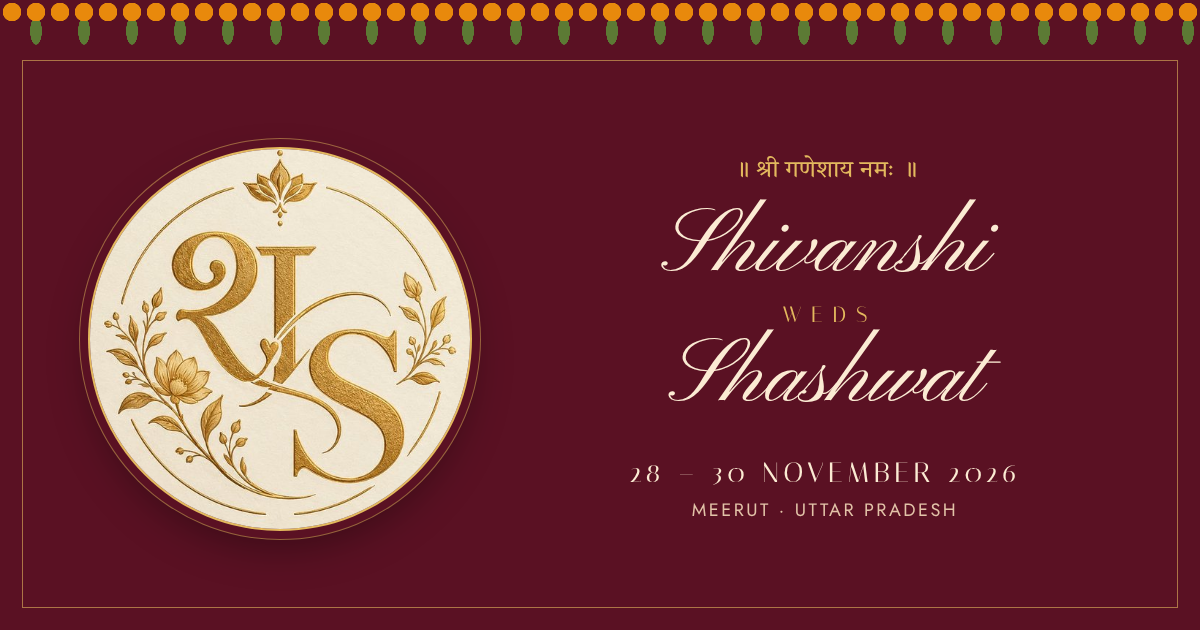
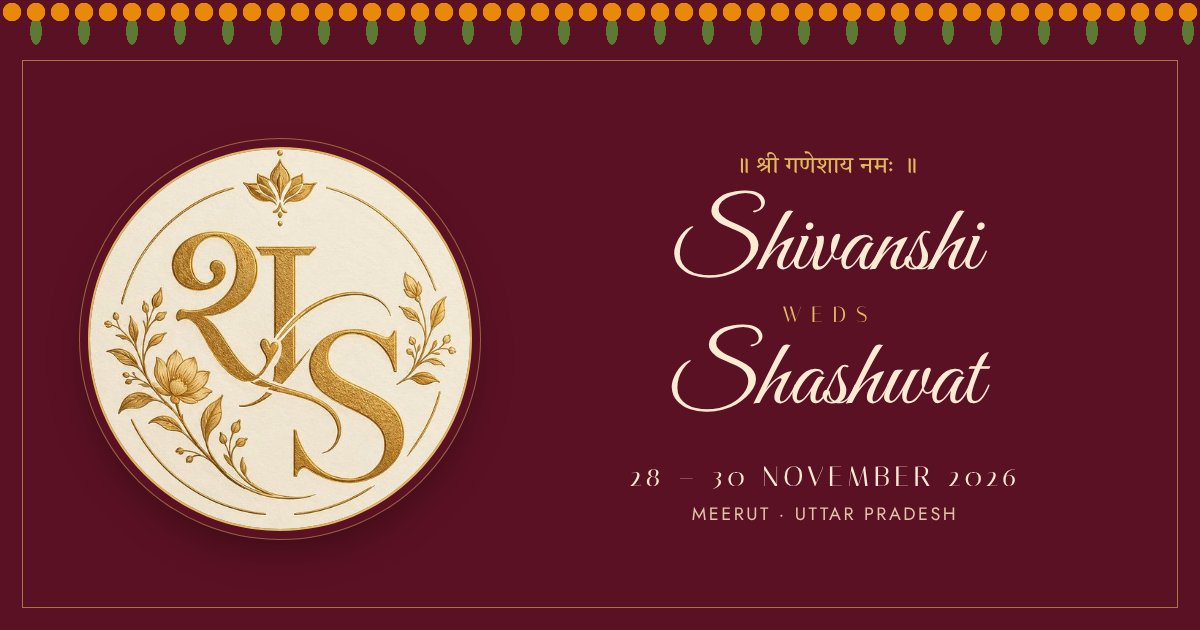
Switch names to Great Vibes and add an English-Hindi swap
Names use Great Vibes for a more legible script, with Amita for the
Devanagari. The doors switch to Hindi once while they wait, and the
opening card alternates between English and Hindi every few seconds in a
top-to-bottom wave: names, date, place and countdown labels. Guests who
prefer reduced motion stay on English.

Claude-Session: https://claude.ai/code/session_01R9DYRoDWeKyJUHyH6mBjUt

diff --git a/wedding-invitation/index.html b/wedding-invitation/index.html
@@ -2,7 +2,7 @@
 <meta name="claude:viewport-fit-sides" content="cover">
 <link rel="preconnect" href="https://fonts.googleapis.com">
 <link rel="preconnect" href="https://fonts.gstatic.com" crossorigin>
-<link rel="stylesheet" href="https://fonts.googleapis.com/css2?family=Italiana&family=Jost:wght@300;400;500&family=Pinyon+Script&family=Tiro+Devanagari+Hindi&display=swap">
+<link rel="stylesheet" href="https://fonts.googleapis.com/css2?family=Italiana&family=Jost:wght@300;400;500&family=Great+Vibes&family=Amita:wght@700&family=Tiro+Devanagari+Hindi&display=swap">
 <style>
   /* Layout: a printed Indian wedding card. A maroon hero card under a marigold toran,
      then ivory sections: the invitation, three functions by day, RSVP to Amit Tyagi. */
@@ -20,7 +20,8 @@
     --hero-muted: #E2C3A8;
     --hero-gold: #E3B95E;
     --error: #A2412F;
-    --font-script: "Pinyon Script", "Snell Roundhand", "Apple Chancery", cursive;
+    --font-script: "Great Vibes", "Snell Roundhand", "Apple Chancery", cursive;
+    --font-deva-script: "Amita", "Tiro Devanagari Hindi", "Noto Serif Devanagari", serif;
     --font-display: "Italiana", "Didot", "Bodoni 72", Georgia, serif;
     --font-deva: "Tiro Devanagari Hindi", "Noto Serif Devanagari", "Kohinoor Devanagari", serif;
     --font-body: "Jost", "Avenir Next", "Segoe UI", system-ui, sans-serif;
@@ -270,9 +271,10 @@
   .names {
     font-family: var(--font-script);
     font-weight: 400;
-    font-size: clamp(60px, 13vw, 124px);
-    line-height: 1;
+    font-size: clamp(64px, 14vw, 128px);
+    line-height: 1.05;
     margin: 18px 0 0;
+    text-shadow: 0 2px 18px rgb(0 0 0 / .25);
     text-wrap: balance;
   }
   .names span { display: inline-block; }
@@ -286,6 +288,26 @@
     margin-block: 14px 10px;
     padding-left: .4em;
   }
+  /* Bilingual text: English and Hindi share one grid cell and swap with a soft blur.
+     --i staggers the swap so the card changes language as one wave, top to bottom. */
+  .bi, .names .bi { display: inline-grid; }
+  .bi > span {
+    grid-area: 1 / 1;
+    justify-self: center;
+    align-self: center;
+    transition:
+      opacity 420ms ease calc(var(--i, 0) * 70ms),
+      filter 420ms ease calc(var(--i, 0) * 70ms),
+      transform 600ms var(--ease-out) calc(var(--i, 0) * 70ms);
+  }
+  .bi > .hi { opacity: 0; filter: blur(6px); transform: translateY(10px); }
+  [data-show="hi"] .bi > .en { opacity: 0; filter: blur(6px); transform: translateY(-10px); }
+  [data-show="hi"] .bi > .hi { opacity: 1; filter: none; transform: none; }
+  .hi { font-family: var(--font-deva); letter-spacing: 0; text-transform: none; }
+  .names .hi { font-family: var(--font-deva-script); font-weight: 700; font-size: .6em; line-height: 1.5; }
+  .names .weds .hi { font-family: var(--font-deva-script); font-size: 1.9em; line-height: 1; }
+  .gate-names .hi { font-family: var(--font-deva-script); font-weight: 700; font-size: .66em; }
+
   .when {
     margin: 30px auto 0;
     display: grid;
@@ -543,6 +565,7 @@
     html { scroll-behavior: auto; }
     .in, .fade-in, .seal { animation: fade 250ms ease both; animation-delay: 0ms; }
     .mandala, .glint { animation: none; }
+    .bi > span, [data-show="hi"] .bi > span { filter: none !important; transform: none !important; transition: opacity 300ms ease; }
     .glint { display: none; }
     .btn:active, .link-btn:active, .choice input:active + span { transform: none; }
     .result { @starting-style { opacity: 0; transform: none; } }
@@ -566,9 +589,9 @@
   <div class="door r"><div class="toran" aria-hidden="true"></div><span class="knob"></span></div>
   <div class="gate-center">
     <img class="seal" src="monogram.jpg" width="520" height="520" alt="">
-    <div class="gate-names in" style="--d:120ms;--y:12px">Shivanshi &amp; Shashwat</div>
-    <div class="gate-date in" style="--d:220ms;--y:6px">28 · 29 · 30 November 2026</div>
-    <div class="gate-hint fade-in" style="--d:700ms">Tap to open</div>
+    <div class="gate-names in" style="--d:120ms;--y:12px"><span class="bi" style="--i:0"><span class="en">Shivanshi &amp; Shashwat</span><span class="hi" lang="hi" aria-hidden="true">शिवांशी संग शाश्वत</span></span></div>
+    <div class="gate-date in" style="--d:220ms;--y:6px"><span class="bi" style="--i:1"><span class="en">28 · 29 · 30 November 2026</span><span class="hi" lang="hi" aria-hidden="true">२८ · २९ · ३० नवंबर २०२६</span></span></div>
+    <div class="gate-hint fade-in" style="--d:700ms"><span class="bi" style="--i:2"><span class="en">Tap to open</span><span class="hi" lang="hi" aria-hidden="true">खोलने के लिए टैप करें</span></span></div>
   </div>
 </div>
 
@@ -585,24 +608,24 @@
       </div>
 
 
-      <h1 class="names">
-        <span class="in" style="--y:16px;--dur:800ms">Shivanshi</span>
-        <span class="weds fade-in" style="--d:60ms">weds</span>
-        <span class="in" style="--y:16px;--dur:800ms;--d:110ms">Shashwat</span>
+      <h1 class="names" aria-label="Shivanshi weds Shashwat">
+        <span class="in" style="--y:16px;--dur:800ms"><span class="bi" style="--i:0"><span class="en">Shivanshi</span><span class="hi" lang="hi" aria-hidden="true">शिवांशी</span></span></span>
+        <span class="weds fade-in" style="--d:60ms"><span class="bi" style="--i:1"><span class="en">weds</span><span class="hi" lang="hi" aria-hidden="true">संग</span></span></span>
+        <span class="in" style="--y:16px;--dur:800ms;--d:110ms"><span class="bi" style="--i:2"><span class="en">Shashwat</span><span class="hi" lang="hi" aria-hidden="true">शाश्वत</span></span></span>
       </h1>
 
       <div class="when in" style="--d:220ms;--y:6px" aria-label="Monday, 30 November 2026">
-        <div class="side">Monday</div>
-        <div><span class="day">30</span><span class="month">November</span></div>
-        <div class="side">2026</div>
+        <div class="side"><span class="bi" style="--i:3"><span class="en">Monday</span><span class="hi" lang="hi" aria-hidden="true">सोमवार</span></span></div>
+        <div><span class="day"><span class="bi" style="--i:3"><span class="en">30</span><span class="hi" lang="hi" aria-hidden="true">३०</span></span></span><span class="month"><span class="bi" style="--i:4"><span class="en">November</span><span class="hi" lang="hi" aria-hidden="true">नवंबर</span></span></span></div>
+        <div class="side"><span class="bi" style="--i:3"><span class="en">2026</span><span class="hi" lang="hi" aria-hidden="true">२०२६</span></span></div>
       </div>
-      <p class="place in" style="--d:220ms;--y:6px">Meerut, Uttar Pradesh</p>
+      <p class="place in" style="--d:220ms;--y:6px"><span class="bi" style="--i:5"><span class="en">Meerut, Uttar Pradesh</span><span class="hi" lang="hi" aria-hidden="true">मेरठ, उत्तर प्रदेश</span></span></p>
 
       <div class="countdown in" style="--d:320ms;--y:4px" id="countdown" aria-label="Time until the wedding">
-        <div><b id="cd-d">--</b><small>Days</small></div>
-        <div><b id="cd-h">--</b><small>Hours</small></div>
-        <div><b id="cd-m">--</b><small>Minutes</small></div>
-        <div><b id="cd-s">--</b><small>Seconds</small></div>
+        <div><b id="cd-d">--</b><small><span class="bi" style="--i:6"><span class="en">Days</span><span class="hi" lang="hi" aria-hidden="true">दिन</span></span></small></div>
+        <div><b id="cd-h">--</b><small><span class="bi" style="--i:6"><span class="en">Hours</span><span class="hi" lang="hi" aria-hidden="true">घंटे</span></span></small></div>
+        <div><b id="cd-m">--</b><small><span class="bi" style="--i:6"><span class="en">Minutes</span><span class="hi" lang="hi" aria-hidden="true">मिनट</span></span></small></div>
+        <div><b id="cd-s">--</b><small><span class="bi" style="--i:6"><span class="en">Seconds</span><span class="hi" lang="hi" aria-hidden="true">सेकंड</span></span></small></div>
       </div>
       <p class="countdown-done" id="countdown-done" hidden>Shubh Vivah</p>
 
@@ -875,6 +898,7 @@
     try { sessionStorage.setItem("ss-gate-opened", "1"); } catch (e) {}
     gate.classList.add("opening");
     setTimeout(function () { root.classList.remove("gate-hold"); }, 380);
+    setTimeout(cycleHero, 1800);
     setTimeout(function () { showerPetals(); }, 600);
     setTimeout(function () { root.classList.remove("has-gate"); gate.remove(); }, 1350);
   }
@@ -883,10 +907,27 @@
     gate.addEventListener("keydown", function (e) {
       if (e.key === "Enter" || e.key === " ") { e.preventDefault(); openGate(); }
     });
-    autoOpen = setTimeout(openGate, 3200); // opens on its own if the guest doesn't tap
+    autoOpen = setTimeout(openGate, 3800); // opens on its own if the guest doesn't tap
   } else {
     gate.remove();
+    setTimeout(cycleHero, 1800);
   }
+
+  // ---- English / Hindi swap ----
+  // The doors switch to Hindi once while they wait; the card then alternates every 4s.
+  // Guests who prefer reduced motion stay on English, with no automatic changes.
+  var heroEl = document.querySelector(".hero");
+  var gateCenter = document.querySelector(".gate-center");
+  var langTimer;
+  function cycleHero() {
+    clearInterval(langTimer);
+    if (reduceMotion) return;
+    langTimer = setInterval(function () {
+      if (document.hidden) return;
+      heroEl.dataset.show = heroEl.dataset.show === "hi" ? "en" : "hi";
+    }, 4000);
+  }
+  if (gateCenter && !reduceMotion) setTimeout(function () { gateCenter.dataset.show = "hi"; }, 1800);
 
   // ---- Countdown ----
   var cd = document.getElementById("countdown");
